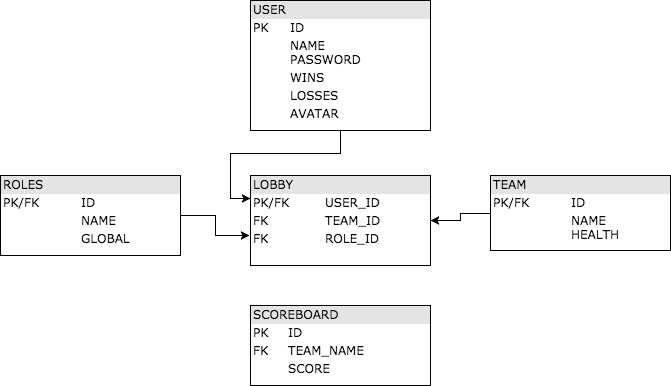
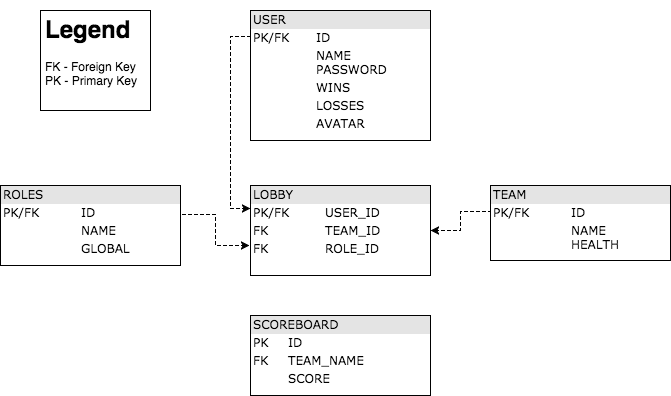
Improved Project Description and ER Diagram

diff --git a/DesignDocument/source/ProjectDescription.tex b/DesignDocument/source/ProjectDescription.tex
@@ -1,5 +1,5 @@
-\textit{Admiral Radar: Space Expedition}  allows players to enjoy the gameplay mechanics originally found in \textit{Captain Sonar} but without the need for players to be in the same geographic location. \textit{Captain Sonar} along with many other board games don?t have as much of a chance to shine in the spotlight due its eclipsing in popularity from video games. A game like this has huge entertainment potential if properly ported to a more complex, convenient and popular platform, specifically on the computer. The enhanced complexity of the computer platform can allow for this game?s shortcomings to be eliminated ? and that is what this project aims to do.
+\textit{Admiral Radar: Space Expedition}  allows players to enjoy the gameplay mechanics originally found in \textit{Captain Sonar} but without the need for players to be in the same geographic location. \textit{Captain Sonar} along with many other board games don't have as much of a chance to shine in the spotlight due its eclipsing in popularity from video games. A game like this has huge entertainment potential if properly ported to a more complex, convenient and popular platform, specifically on the computer. The enhanced complexity of the computer platform can allow for this game's shortcomings to be eliminated - and that is what this project aims to do.
 
 There has been significant prior work in this area in the form of efforts to computerize various board games. The most familiar example of such work may be the video and computer game versions of the board game Monopoly. The experience provided by such app is generally high-quality, however is limited to that specific game. More complicated, less universally known games are less frequently converted into applications. We intend to develop our game on a more user friendly GUI and implement all the benefits associated with digitization.
 
-\textit{Captain Sonar} is a board game released in 2016 that provides an engaging mechanic for team building and cooperative play. In the game, players form teams of up to four and assume various roles onboard a submarine. The captain steers the submarine, the radio officer determines the location of an enemy submarine, the first mate ensures that sensors and weapons will be ready to be used, and the engineer fixes broken systems. Each movement of the submarine is accompanied by actions from each team member, which together comprise one game turn. Turns for each team may occur at different rates - in other words, each team?s turn is not dependent on the others?. Such a game structure, called a ?real time? board game, is uniquely fun and engaging while an exceptional promoter for teamwork. Thus, our project will use the mechanics and rules from \textit{Captain Sonar} while using a space-based backstory and visual theme.
+\textit{Captain Sonar} is a board game released in 2016 that provides an engaging mechanic for team building and cooperative play. In the game, players form teams of up to four and assume various roles onboard a submarine. The captain steers the submarine, the radio officer determines the location of an enemy submarine, the first mate ensures that sensors and weapons will be ready to be used, and the engineer fixes broken systems. Each movement of the submarine is accompanied by actions from each team member, which together comprise one game turn. Turns for each team may occur at different rates - in other words, each team's turn is not dependent on the others'. Such a game structure, called a "real time" board game, is uniquely fun and engaging while an exceptional promoter for teamwork. Thus, our project will use the mechanics and rules from \textit{Captain Sonar} while using a space-based backstory and visual theme.
